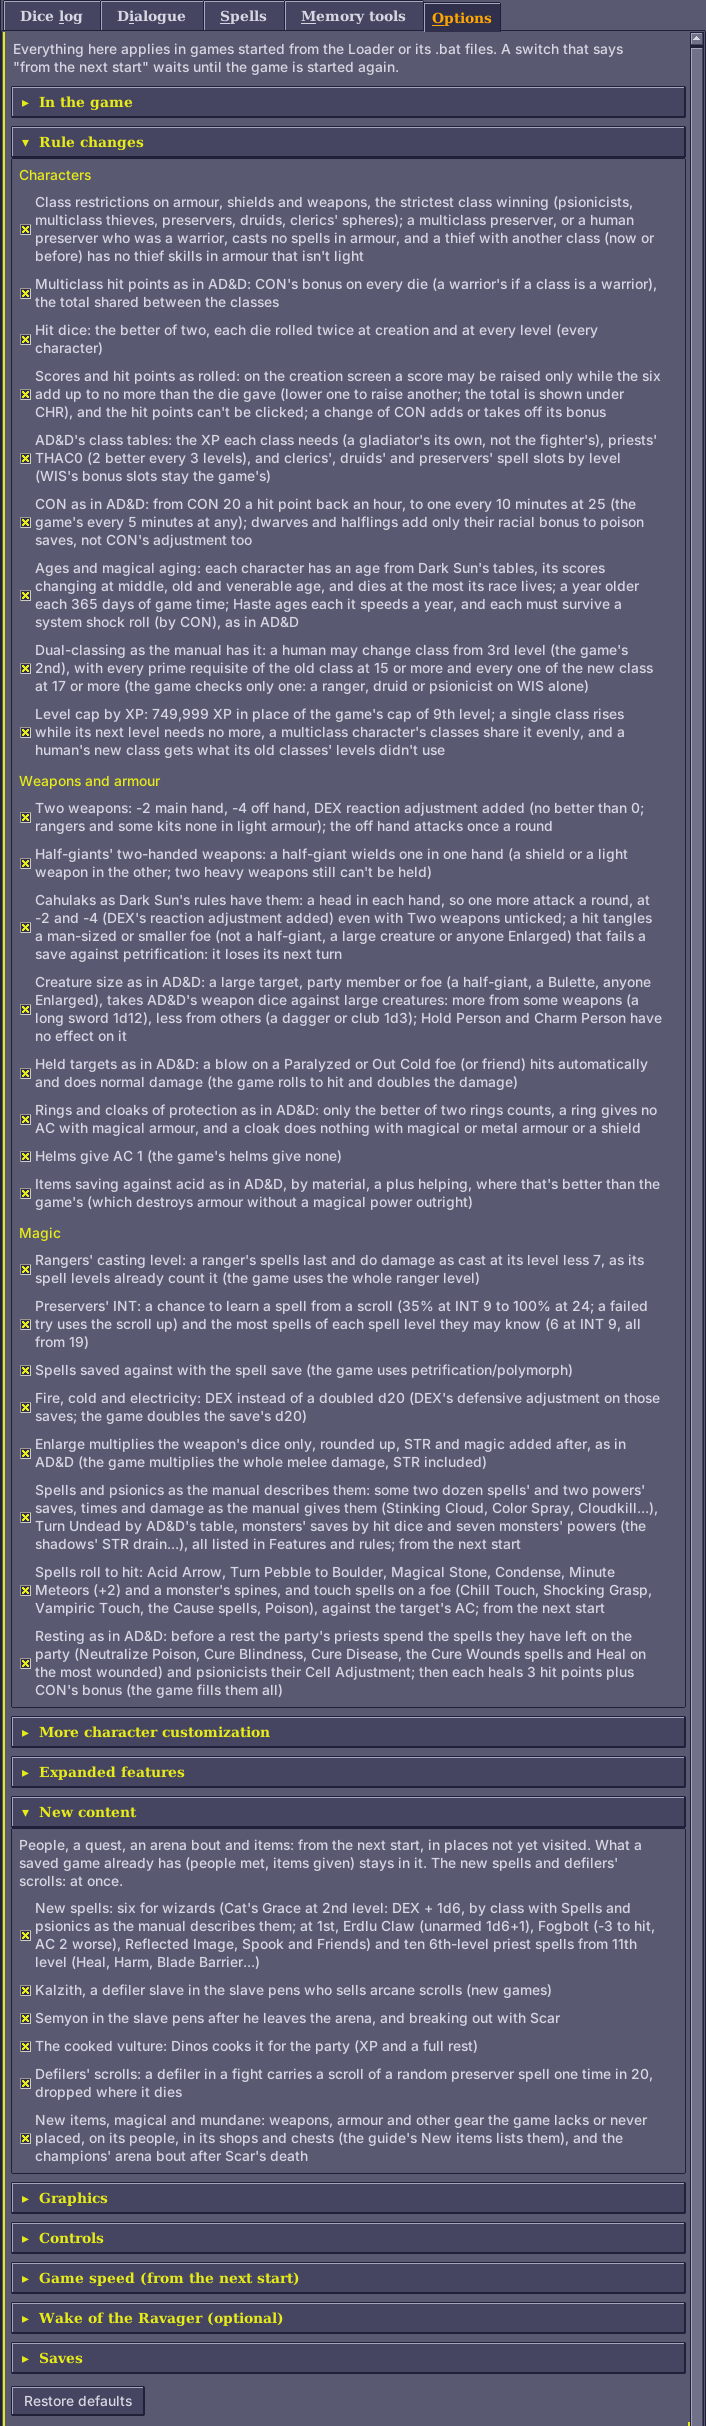
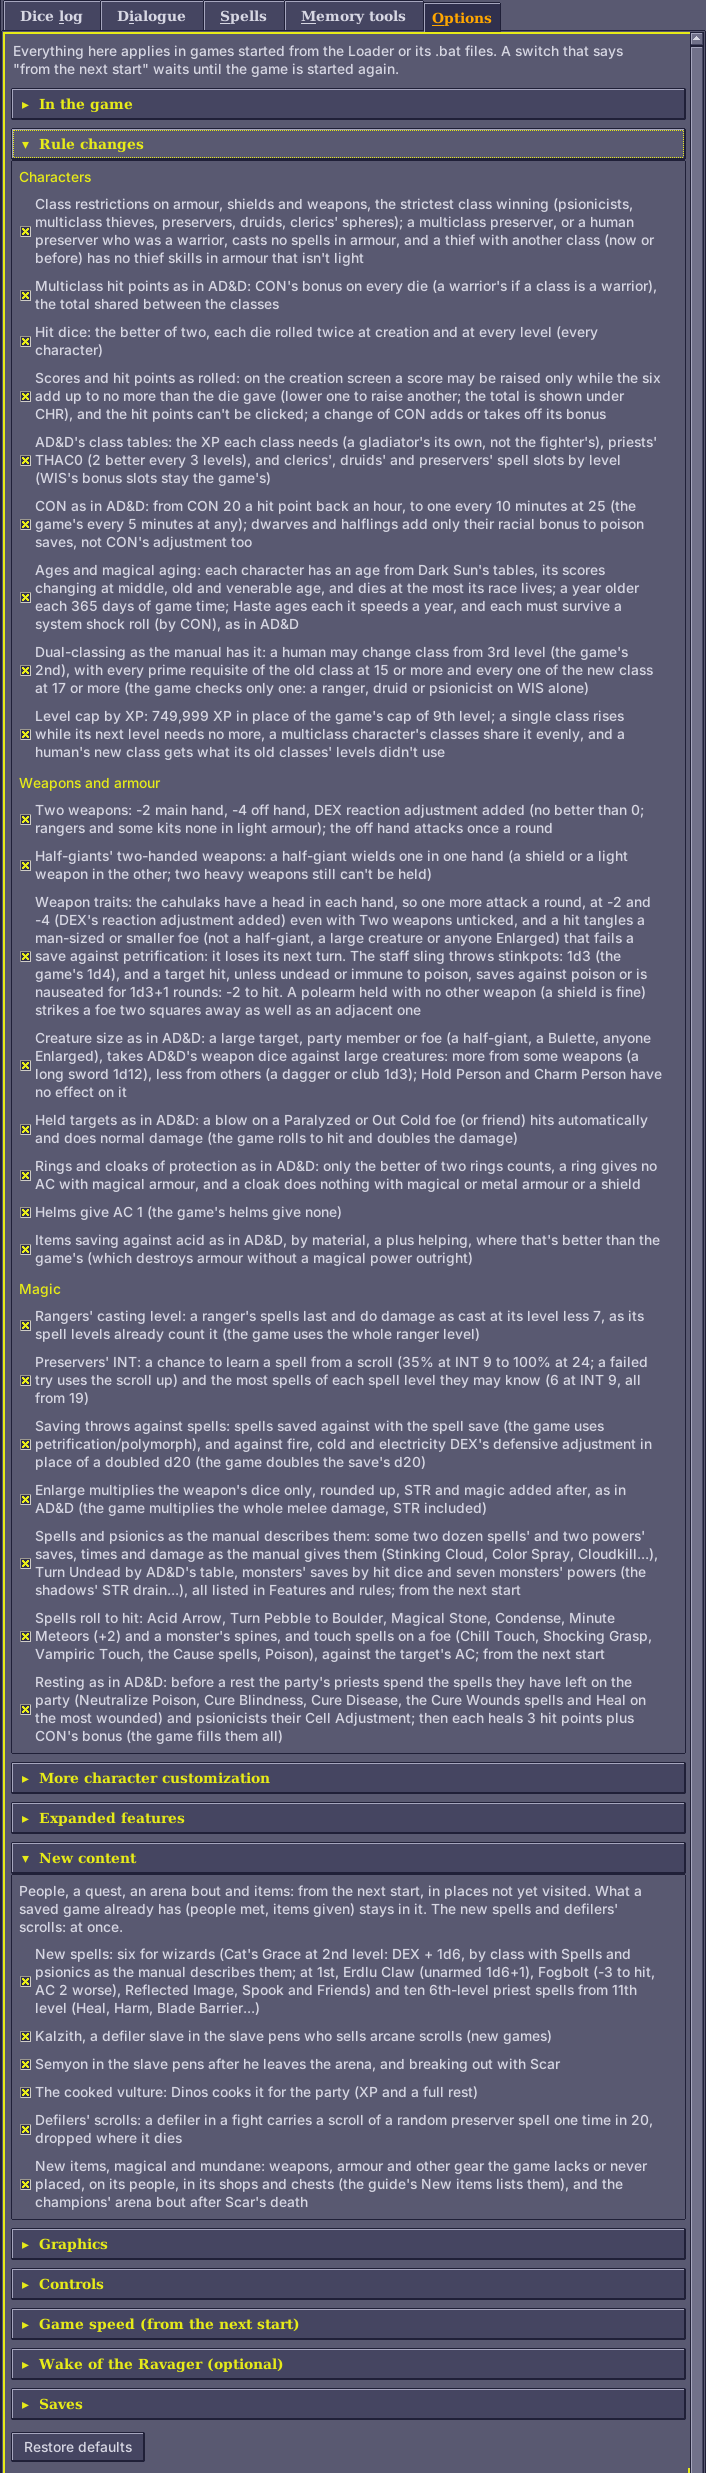
docs/options.png retaken with the merged switches
Claude-Session: https://claude.ai/code/session_01MpsiU94Q7CT44DgXwo8K6K

Changed region(s): [[0.0, 0.0, 0.966, 1.0], [0.8102, 0.0, 0.8725, 0.0309], [0.966, 0.0, 0.9972, 0.0309]]

diff --git a/playtest/logs/2026-11-10-loader-shots-and-chatkcha-line.md b/playtest/logs/2026-11-10-loader-shots-and-chatkcha-line.md
@@ -32,3 +32,12 @@
 - **K'ratchek:** OPEN SKY SPELLS/PSI, specialized in chatkcha. No chatkcha rate line.
 - The picture is `img/2026-11-10-kratchek-effects.png`.
 - `buildcheck.py`: OK.
+
+## The Options picture again (after the switch merges)
+
+The same recipe:
+- Xvfb `:57` at 1400x3400; `python3.12 -m dsloader view`; the window found with `xdotool search --onlyvisible --name .` (the window title is "Dark Sun Obsidian Edition Loader ..."), resized to 1320x3300 and moved to 0,0.
+- The Options tab (1061,132).
+- The window had kept Graphics and Controls open. Clicking the headers at x 700, bottom-up so the ones above stay put: Controls closed, then New content and Rule changes opened. The header rows were found by scanning x 640 for the headers' borders.
+- The crop: x 608, y 116, 706 wide, to 12 rows under the last dark row of Restore defaults (y 2577). That gives 706 x 2473, taller than before with fewer switches, since the merged ones' texts are longer.
+- The Loader window was closed by its pid.

diff --git a/CHANGELOG.md b/CHANGELOG.md
@@ -111,8 +111,8 @@ reach took 384 bytes of the segment (68,592 bytes before it).
   playtest/logs/2026-11-10-grand-mastery-large.md.)
 
 **Docs**
-- docs/options.png still shows 2.15.0's switches (the two save switches, the cahulaks' own, the separate
-  shop and thief boxes): to be retaken before the release.
+- docs/options.png retaken: the Options tab with the merged switches (Weapon traits, Saving throws
+  against spells, Shops and Thieves as in AD&D), Rule changes and New content open; 706 x 2473.
 - KITS: a table of every weapon spec's dice, man-sized and large, with and without grand mastery
   ([Grand mastery's damage](obsidian-edition/KITS.md#grand-masterys-damage); `GrandMasteryTableTests`
   keeps it in step with `sizes.LARGE_DICE` and `specialize.next_die`). The staff sling's row is its
